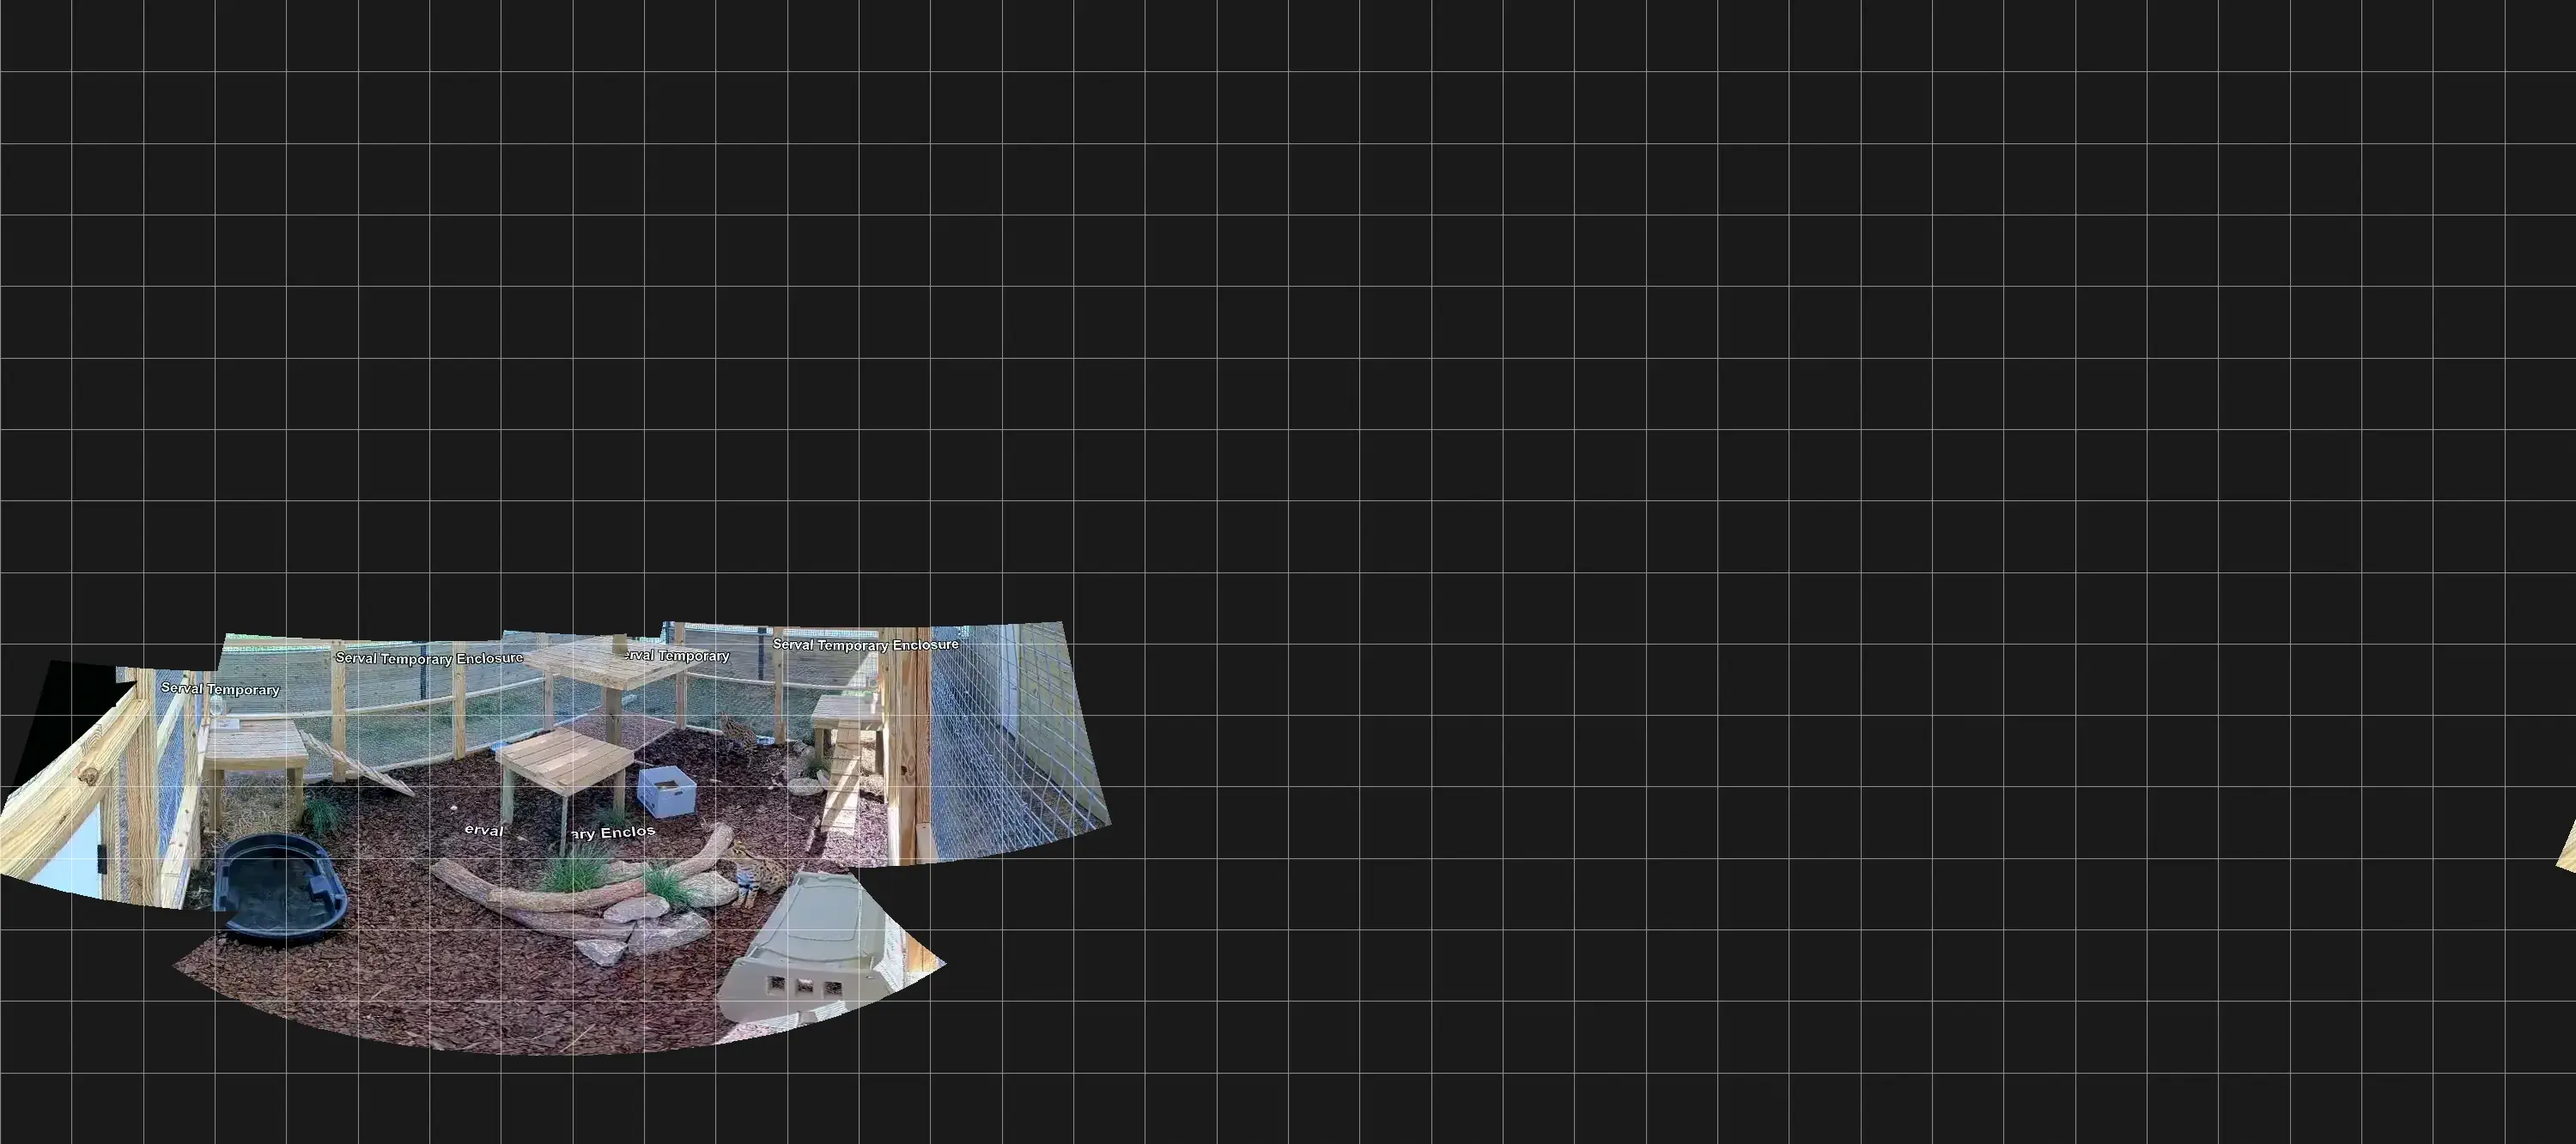
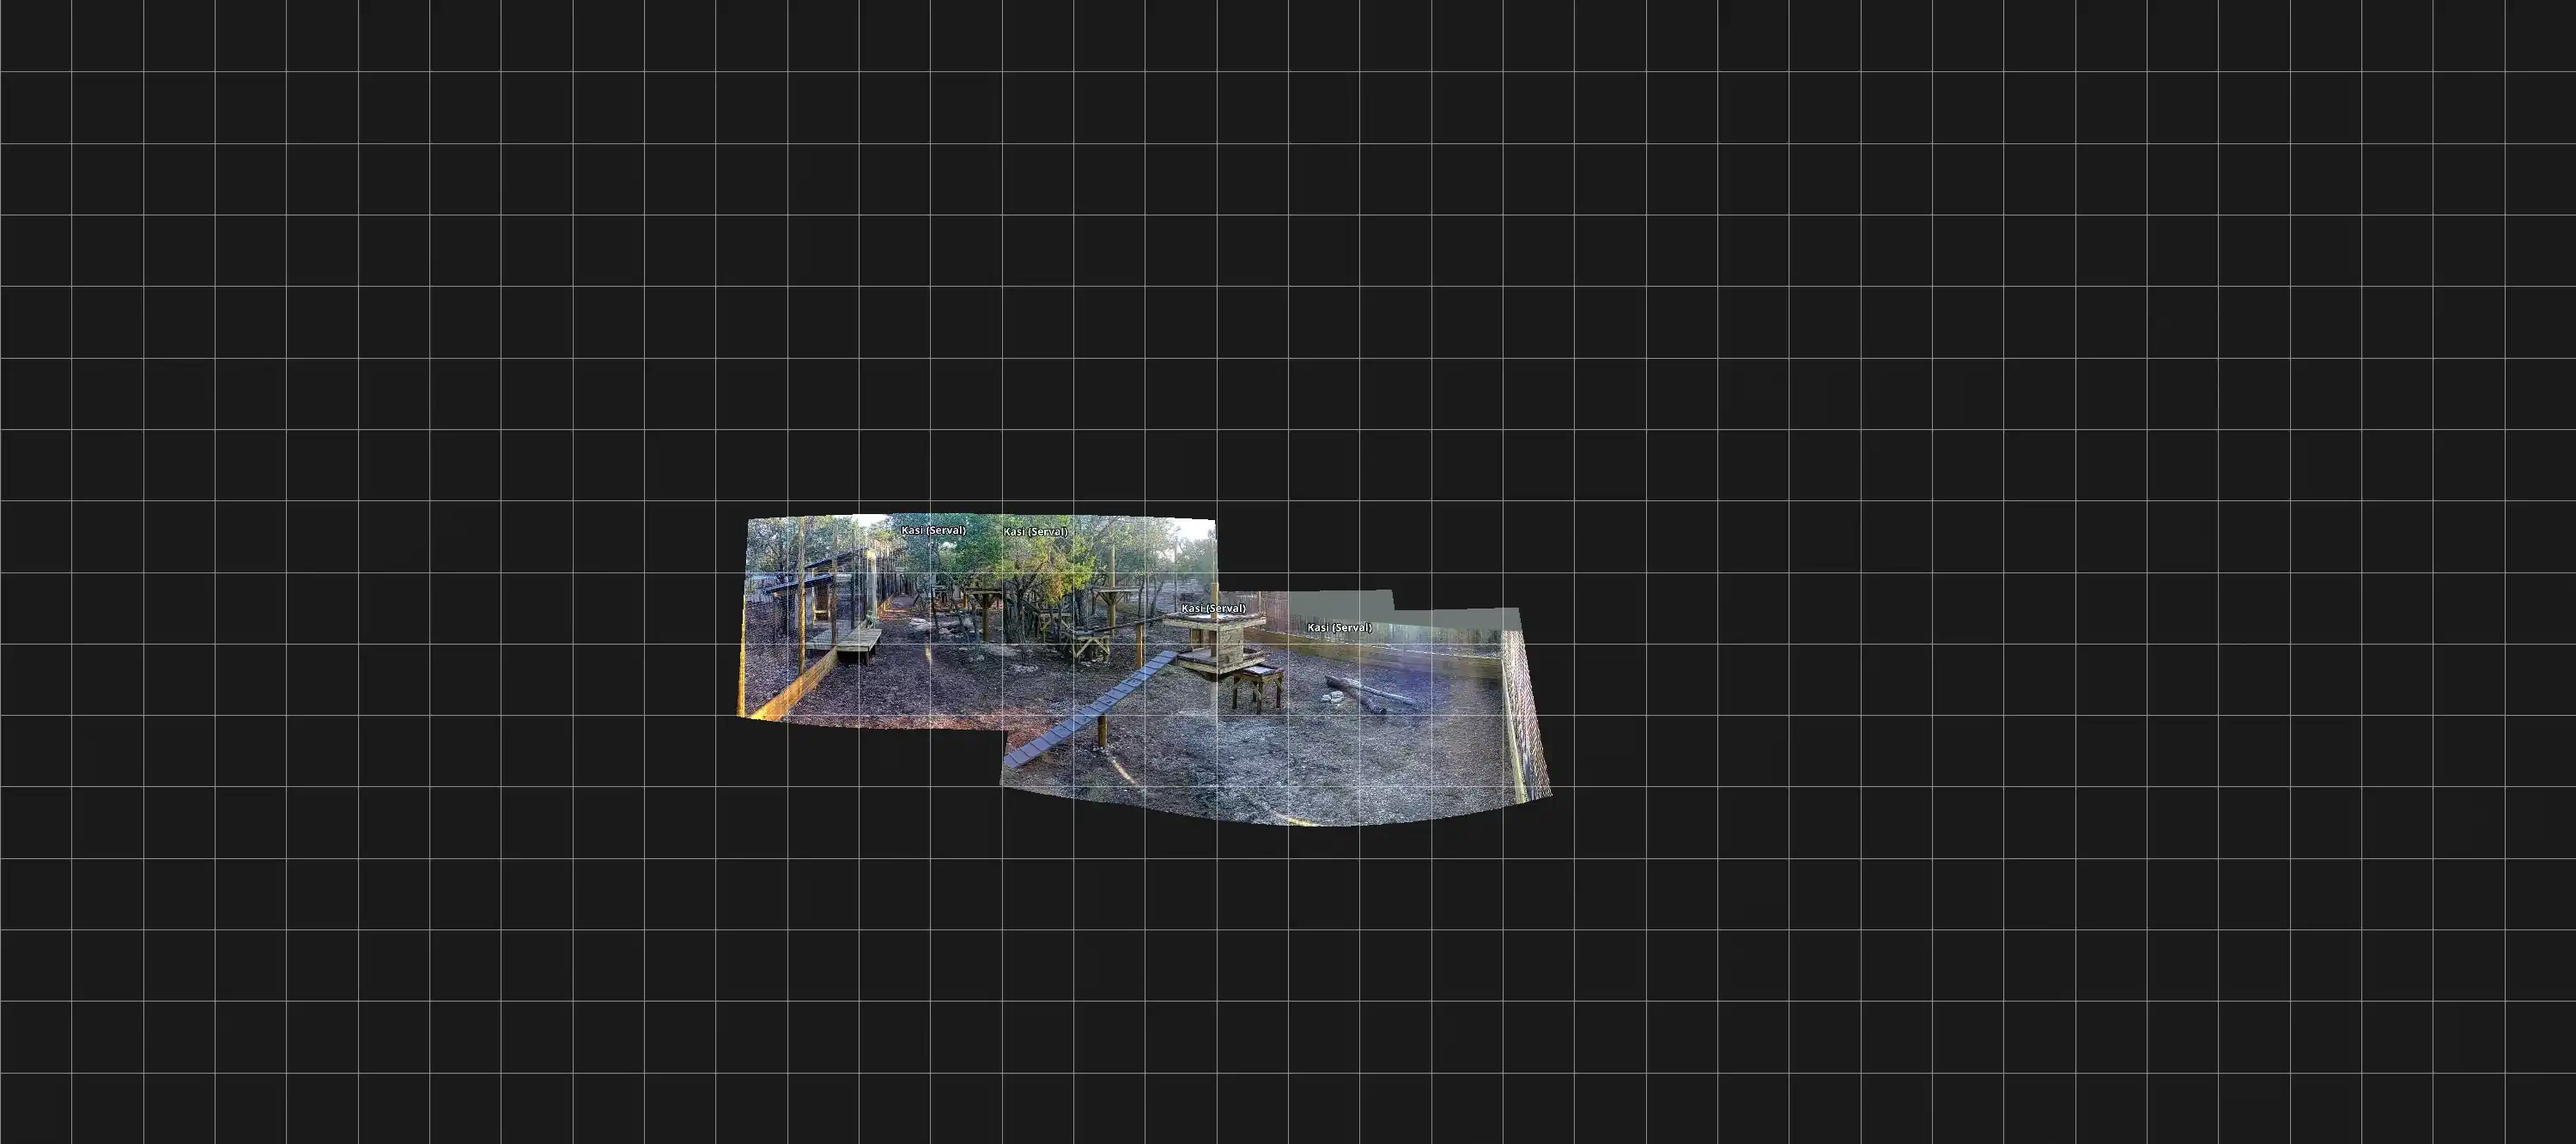
enable serval pages

Changed region(s): [[0.0, 0.4306, 0.62, 0.9227], [0.992, 0.7074, 1.0, 0.7689]]

diff --git a/src/images.tsx b/src/images.tsx
@@ -18,6 +18,8 @@ import pasture_pano from "./pasture_pano.webp";
 import pasturelower_pano from "./pasturelower_pano.webp";
 import pushin_pano from "./pushin_pano.webp";
 import pushout_pano from "./pushout_pano.webp";
+import serval_pano from "./serval_pano.webp";
+import servalcorner_pano from "./servalcorner_pano.webp";
 import servalindoor_pano from "./servalindoor_pano.webp";
 import toast_pano from "./toast_pano.webp";
 import wolf_pano from "./wolf_pano.webp";
@@ -43,6 +45,8 @@ const images: Record<CamType, string | null> = {
   pushpop: pushout_pano,
   pushpopindoor: pushin_pano,
   servalindoor: servalindoor_pano,
+  servalcorner: servalcorner_pano,
+  serval: serval_pano,
   toast: toast_pano,
   wolf: wolf_pano,
   wolfcorner: wolfcorner_pano,
@@ -56,8 +60,6 @@ const images: Record<CamType, string | null> = {
   marty: null,
   patchy: null,
   event: null,
-  serval: null,
-  servalcorner: null,
 };
 
 export const getImage = (name: CamType) => {

diff --git a/src/cams.ts b/src/cams.ts
@@ -33,14 +33,6 @@ export const cams = [
 ] as const;
 export type CamType = (typeof cams)[number];
 
-const HiddenCams = new Set([
-  "noodle",
-  "roach",
-  "marty",
-  "patchy",
-  "event",
-  "serval",
-  "servalcorner",
-]);
+const HiddenCams = new Set(["noodle", "roach", "marty", "patchy", "event"]);
 
 export const isCamHidden = (v: string) => HiddenCams.has(v);
